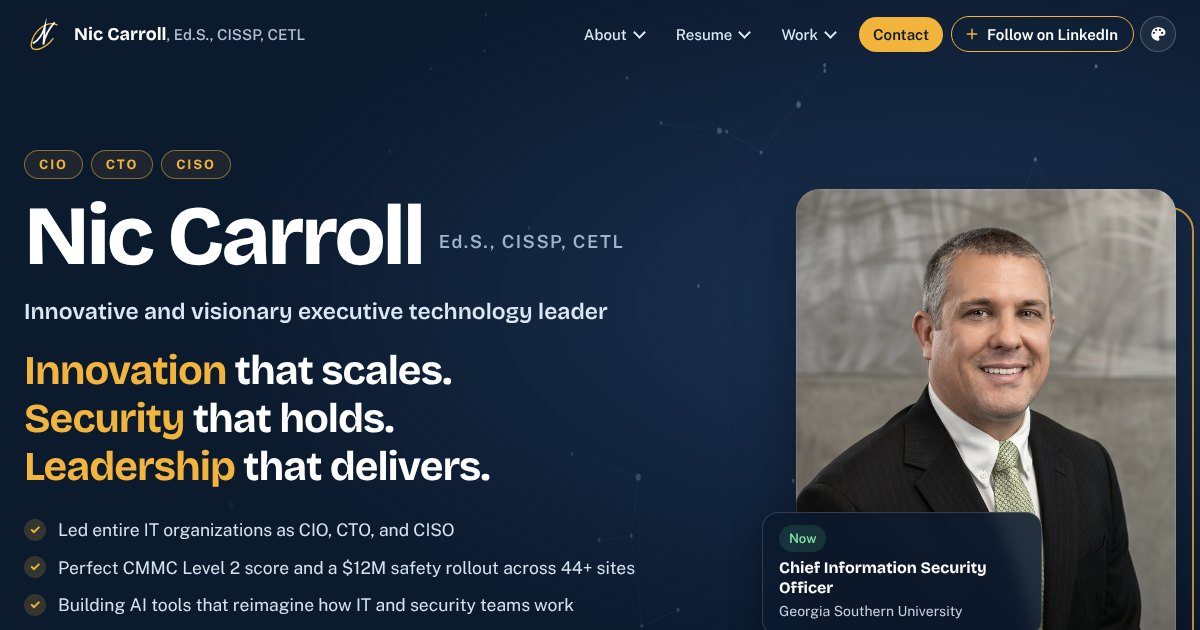
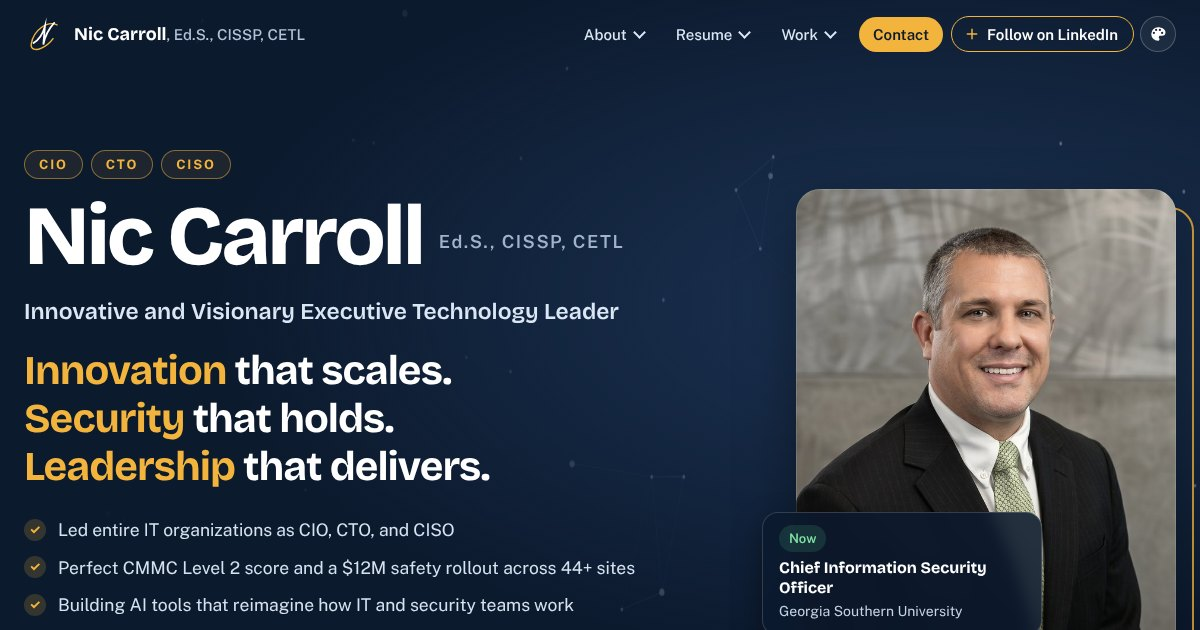
Hero tagline in Title Case
Claude-Session: https://claude.ai/code/session_018uX2ZPpfU6CuiUd8wg41G2

Changed region(s): [[0.1542, 0.4825, 0.5242, 0.5127]]

diff --git a/public/index.html b/public/index.html
@@ -524,7 +524,7 @@
     <div class="hero-copy">
       <ul class="role-chips" aria-label="Executive roles held"><li>CIO</li><li>CTO</li><li>CISO</li></ul>
       <h1 id="hero-name">Nic Carroll<small>Ed.S., CISSP, CETL</small></h1>
-      <p class="hero-title" id="hero-title">Innovative and visionary executive technology leader</p>
+      <p class="hero-title" id="hero-title">Innovative and Visionary Executive Technology Leader</p>
       <p class="hero-value" id="intro">Innovation that scales. Security that holds. Leadership that delivers.</p>
       <ul class="points" id="points"></ul>
       <div class="cta">
